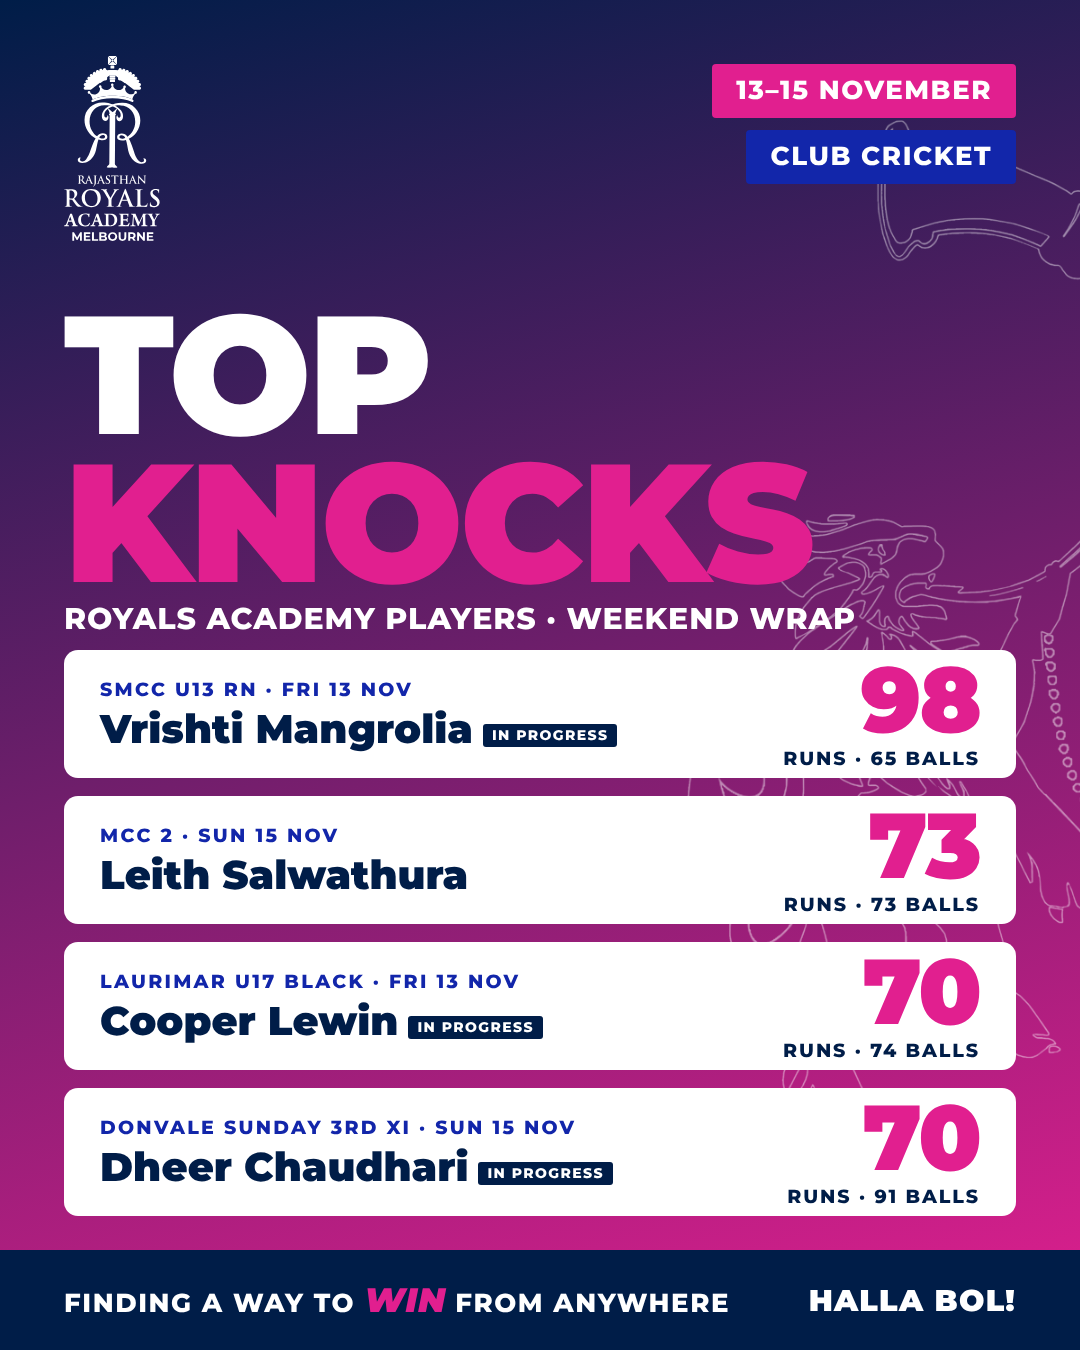
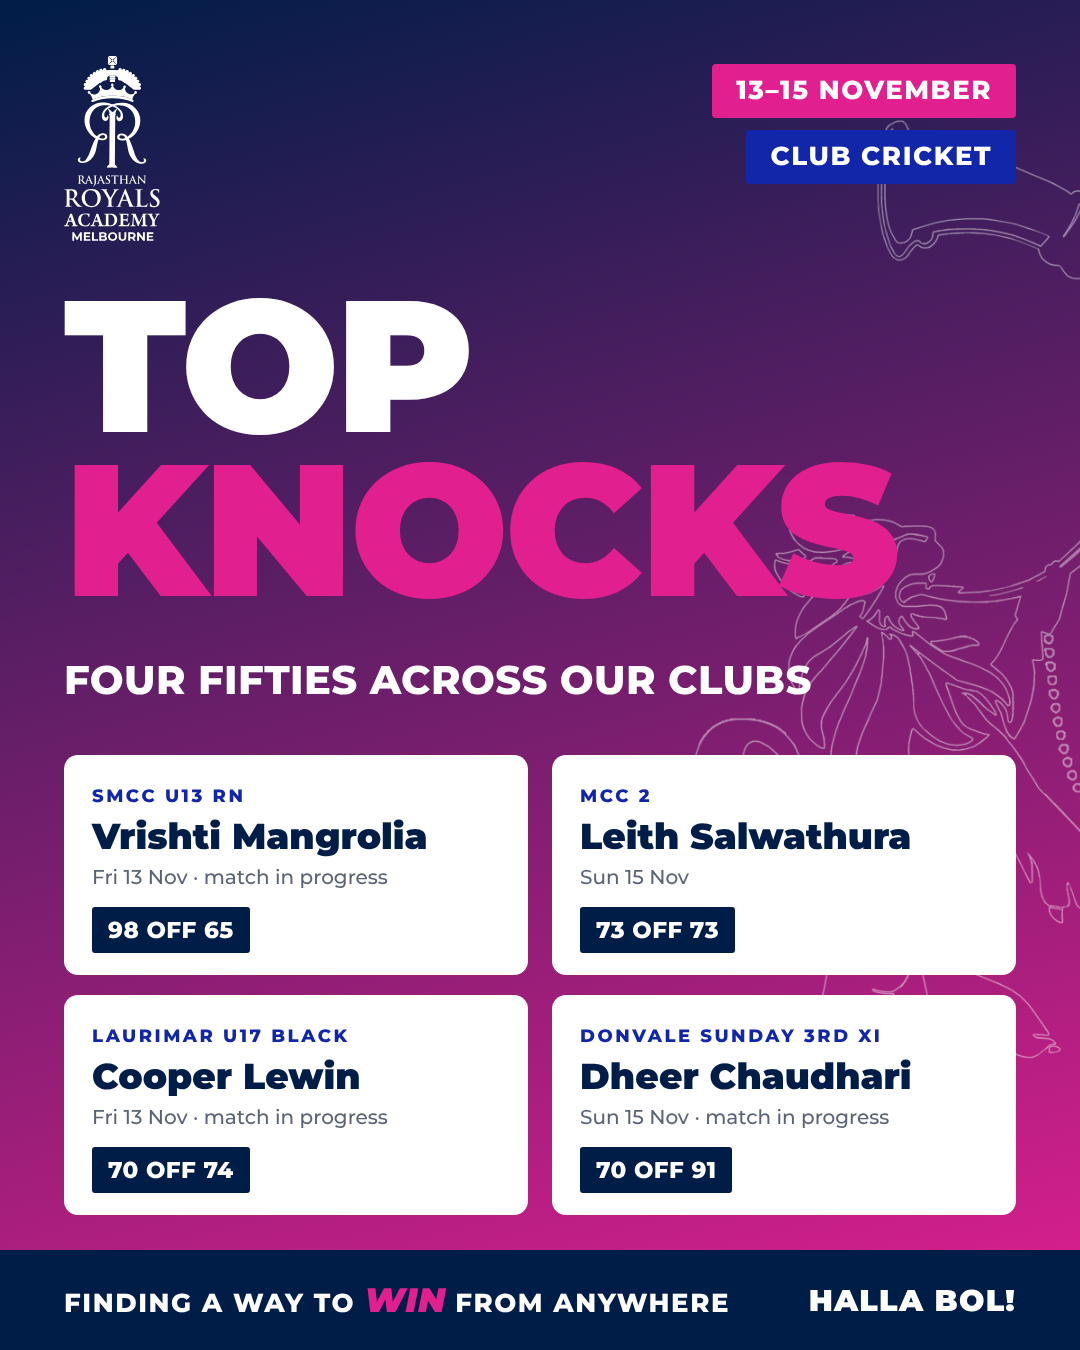
Save Andy's master Game Day reference with measurements; results template matched to its grid
Claude-Session: https://claude.ai/code/session_01LFFLZ7Q5rV4Gcv12DsXfHk

Changed region(s): [[0.0611, 0.2178, 0.9472, 0.9022]]

diff --git a/brand/templates/weekend-results/1.html b/brand/templates/weekend-results/1.html
@@ -1,17 +1,11 @@
-<!doctype html><html><head><meta charset="utf-8"><link rel="stylesheet" href="base.css"><style>
-.list{position:absolute;left:64px;right:64px;top:650px;display:flex;flex-direction:column;gap:18px}
-.card{height:128px;padding:0 36px}
-.num{font-size:92px}
-</style></head><body><div class="frame">
+<!doctype html><html><head><meta charset="utf-8"><link rel="stylesheet" href="base.css"></head><body><div class="frame">
 <img class="lion" src="../../logos/lion-rampant-white.png"><img class="logo" src="../../logos/rra-melbourne-white.svg">
 <div class="chips"><span class="chip pink">13–15 November</span><span class="chip blue">Club cricket</span></div>
-<div class="h" style="top:300px;font-size:168px"><span>TOP</span><span class="p">KNOCKS</span></div>
-<div class="sub" style="top:600px">Royals Academy players · Weekend wrap</div>
-<div class="list">
- <div class="card"><div><div class="eyebrow">SMCC U13 RN · Fri 13 Nov</div><div class="name">Vrishti Mangrolia<span class="tag">IN PROGRESS</span></div></div><div class="fig"><div class="num">98</div><div class="unit">Runs · 65 balls</div></div></div>
- <div class="card"><div><div class="eyebrow">MCC 2 · Sun 15 Nov</div><div class="name">Leith Salwathura</div></div><div class="fig"><div class="num">73</div><div class="unit">Runs · 73 balls</div></div></div>
- <div class="card"><div><div class="eyebrow">Laurimar U17 Black · Fri 13 Nov</div><div class="name">Cooper Lewin<span class="tag">IN PROGRESS</span></div></div><div class="fig"><div class="num">70</div><div class="unit">Runs · 74 balls</div></div></div>
- <div class="card"><div><div class="eyebrow">Donvale Sunday 3rd XI · Sun 15 Nov</div><div class="name">Dheer Chaudhari<span class="tag">IN PROGRESS</span></div></div><div class="fig"><div class="num">70</div><div class="unit">Runs · 91 balls</div></div></div>
-</div>
+<div class="h"><span>TOP</span><span class="p">KNOCKS</span></div>
+<div class="st" style="top:655px"><div class="a">FOUR FIFTIES ACROSS OUR CLUBS</div></div>
+<div class="gd" style="top:755px;row-gap:20px"><div class="gc"><div class="eyebrow">SMCC U13 RN</div><div class="t">Vrishti Mangrolia</div><div class="s">Fri 13 Nov · match in progress</div><div class="k">98 OFF 65</div></div><div class="gc"><div class="eyebrow">MCC 2</div><div class="t">Leith Salwathura</div><div class="s">Sun 15 Nov</div><div class="k">73 OFF 73</div></div><div class="gc"><div class="eyebrow">Laurimar U17 Black</div><div class="t">Cooper Lewin</div><div class="s">Fri 13 Nov · match in progress</div><div class="k">70 OFF 74</div></div><div class="gc"><div class="eyebrow">Donvale Sunday 3rd XI</div><div class="t">Dheer Chaudhari</div><div class="s">Sun 15 Nov · match in progress</div><div class="k">70 OFF 91</div></div></div>
 <div class="footer"><span>FINDING A WAY TO <em>WIN</em> FROM ANYWHERE</span><b>HALLA BOL!</b></div>
-</div></body></html>
+</div><script>
+// Fit the headline: Game Day size (245px), longest word ends by x=900 (GAME ends at 805) so the lion keeps its space
+document.fonts.load('900 100px M').then(()=>document.fonts.ready).then(()=>{document.querySelectorAll('.h').forEach(h=>{const max=parseFloat(getComputedStyle(h).fontSize),cap=h.offsetTop+0.098*max;let f=max;const w=()=>Math.max(...[...h.children].map(s=>{const r=document.createRange();r.selectNodeContents(s);return r.getBoundingClientRect().width}));while(w()>h.parentElement.clientWidth-64-180&&f>60){f-=2;h.style.fontSize=f+'px'}h.style.top=(cap-0.098*f)+'px';document.body.dataset.ready=1})});
+</script></body></html>

diff --git a/brand/templates/weekend-results/2.html b/brand/templates/weekend-results/2.html
@@ -1,19 +1,11 @@
-<!doctype html><html><head><meta charset="utf-8"><link rel="stylesheet" href="base.css"><style>
-.pair{position:absolute;left:64px;right:64px;top:650px;display:flex;gap:24px}
-.card{flex:1;height:340px;padding:34px 32px;flex-direction:column;align-items:flex-start;justify-content:space-between}
-.num{font-size:132px}
-.msg{position:absolute;left:64px;right:64px;top:1040px;border-left:6px solid var(--pink);padding-left:24px}
-.msg p{font-weight:800;font-size:31px;line-height:1.3}
-.msg small{display:block;margin-top:12px;font-weight:500;font-size:22px;line-height:1.4;opacity:.9}
-.pair .name{font-size:36px;white-space:nowrap}</style></head><body><div class="frame">
+<!doctype html><html><head><meta charset="utf-8"><link rel="stylesheet" href="base.css"></head><body><div class="frame">
 <img class="lion" src="../../logos/lion-rampant-white.png"><img class="logo" src="../../logos/rra-melbourne-white.svg">
 <div class="chips"><span class="chip pink">13–15 November</span><span class="chip blue">Club cricket</span></div>
-<div class="h" style="top:300px;font-size:168px"><span>TOP</span><span class="p">SPELLS</span></div>
-<div class="sub" style="top:600px">Royals Academy players · Weekend wrap</div>
-<div class="pair">
- <div class="card"><div><div class="eyebrow">Ormond 3rd XI · Sat 14 Nov</div><div class="name">Priyam Sharma</div><div class="meta">Spin Club</div></div><div><div class="num">5/43</div><div class="unit">5 wickets</div></div></div>
- <div class="card"><div><div class="eyebrow">Ormond 3rd XI · Sat 14 Nov</div><div class="name">Aarav Vinothkumar</div><div class="meta">Performance Squad</div></div><div><div class="num">4/8</div><div class="unit">4 wickets</div></div></div>
-</div>
-<div class="msg"><p>Proud of all 175 players in our academy community, and how you represent your clubs every week.</p><small>We may not have captured every performance.</small></div>
+<div class="h"><span>TOP</span><span class="p">SPELLS</span></div>
+<div class="st"><div class="a">PROUD OF ALL 175</div><div class="v">PLAYERS IN OUR</div><div class="a">ACADEMY COMMUNITY</div></div>
+<div class="gd" style="top:975px"><div class="gc"><div class="eyebrow">Ormond 3rd XI</div><div class="t">Priyam Sharma</div><div class="s">Sat 14 Nov · Spin Club</div><div class="k">5/43 · 5 WICKETS</div></div><div class="gc"><div class="eyebrow">Ormond 3rd XI</div><div class="t">Aarav Vinothkumar</div><div class="s">Sat 14 Nov · Performance Squad</div><div class="k">4/8 · 4 WICKETS</div></div></div>
 <div class="footer"><span>FINDING A WAY TO <em>WIN</em> FROM ANYWHERE</span><b>HALLA BOL!</b></div>
-</div></body></html>
+</div><script>
+// Fit the headline: Game Day size (245px), longest word ends by x=900 (GAME ends at 805) so the lion keeps its space
+document.fonts.load('900 100px M').then(()=>document.fonts.ready).then(()=>{document.querySelectorAll('.h').forEach(h=>{const max=parseFloat(getComputedStyle(h).fontSize),cap=h.offsetTop+0.098*max;let f=max;const w=()=>Math.max(...[...h.children].map(s=>{const r=document.createRange();r.selectNodeContents(s);return r.getBoundingClientRect().width}));while(w()>h.parentElement.clientWidth-64-180&&f>60){f-=2;h.style.fontSize=f+'px'}h.style.top=(cap-0.098*f)+'px';document.body.dataset.ready=1})});
+</script></body></html>

diff --git a/brand/templates/weekend-results/base.css b/brand/templates/weekend-results/base.css
@@ -13,7 +13,7 @@ body{font-family:M,sans-serif;color:#fff}
 .chips{position:absolute;right:64px;top:64px;display:flex;flex-direction:column;align-items:flex-end;gap:12px}
 .chip{display:inline-block;font-weight:800;text-transform:uppercase;letter-spacing:.06em;padding:12px 24px;border-radius:4px;font-size:26px;line-height:1.15}
 .chip.pink{background:var(--pink)}.chip.blue{background:var(--blue)}.chip.navy{background:var(--navy)}
-.h{position:absolute;left:64px;font-weight:900;text-transform:uppercase;line-height:.88;letter-spacing:-.02em}
+.h{position:absolute;left:64px;top:277px;font-size:245px;font-weight:900;text-transform:uppercase;line-height:.88;letter-spacing:-.02em;white-space:nowrap}
 .h span{display:block}.h .p{color:var(--pink)}
 .sub{position:absolute;left:64px;font-weight:800;text-transform:uppercase;font-size:30px;letter-spacing:.03em}
 .footer{position:absolute;left:0;right:0;bottom:0;height:100px;background:var(--navy);display:flex;align-items:center;justify-content:space-between;padding:0 64px;font-weight:800;font-size:26px;letter-spacing:.06em}
@@ -27,3 +27,14 @@ body{font-family:M,sans-serif;color:#fff}
 .num{color:var(--pink);font-weight:900;line-height:.9;letter-spacing:-.02em}
 .unit{font-weight:800;font-size:19px;letter-spacing:.1em;text-transform:uppercase;margin-top:6px}
 .tag{display:inline-block;margin-left:10px;vertical-align:3px;font-size:14px;font-weight:800;letter-spacing:.1em;padding:4px 9px;border-radius:3px;background:var(--navy);color:#fff}
+
+/* Game Day card (master reference: 464x220, 24px gap, top 975) */
+.gd{position:absolute;left:64px;right:64px;display:grid;grid-template-columns:1fr 1fr;gap:24px}
+.gc{background:#fff;border-radius:14px;color:var(--navy);height:220px;padding:30px 28px 0}
+.gc .eyebrow{font-size:18px;letter-spacing:.14em}
+.gc .t{font-weight:900;font-size:36px;line-height:1.1;margin-top:10px;white-space:nowrap}
+.gc .s{color:#5b6475;font-weight:500;font-size:20px;margin-top:8px;white-space:nowrap}
+.gc .k{display:inline-block;margin-top:18px;background:var(--navy);color:#fff;font-weight:800;font-size:23px;letter-spacing:.02em;padding:9px 16px;border-radius:3px}
+/* Game Day statement block (matchup: white 800 ~40px, pink small connector) */
+.st{position:absolute;left:64px;top:745px;font-weight:800;text-transform:uppercase}
+.st .a{font-size:40px;letter-spacing:.01em}.st .v{color:var(--pink);font-size:26px;margin:14px 0 12px;letter-spacing:.06em}

diff --git a/.claude/skills/rra-design-studio/SKILL.md b/.claude/skills/rra-design-studio/SKILL.md
@@ -26,8 +26,20 @@ What makes it work, and what every new design copies:
 
 Andy, 17 Nov 2026: *"I love the justification of the key headline to the left ... I like the line
 and the proportions."* He wants promos, job ads, alerts and results to look like this. So:
-- **Headline left-aligned at the 64px margin**, never centred. Two words stacked, huge
-  (150-220px on 1080 wide), filling about half the frame width or more.
+**MASTER REFERENCE: `brand/reference/MASTER-game-day-cover.png`** ("This is the style I like").
+Open it and compare side by side before sending anything. Measured on the 1080x1350 frame:
+- Logo top-left x64 y64, ~96px wide. Chips top-right, right edge x1016, top y64, 12px apart.
+- **Headline**: Montserrat 900, **245px**, line-height 0.88, tracking -0.02em, left x64.
+  Line 1 cap top y301, line 2 cap top y517. The longest word ends by about **x900**
+  (GAME ends at x805), so the lion keeps its space on the right. Long words: shrink to fit
+  that, never past it.
+- **Statement block** (the "NORTH MELBOURNE vs SOUTH-EAST MELBOURNE" slot) from y745: white 800
+  ~40px uppercase lines, with a small pink 26px connector line between them.
+- **Cards** from y975: two across, 464x220 each, 24px gap, radius 14. Blue eyebrow 18px,
+  navy 900 title 36px, grey 20px line, navy chip (800, 23px). Four items: 2x2 from y755.
+- Lion: line-art lion, height 1080, right -110px, top 120px, opacity 0.6 on this PNG.
+- Footer: navy bar 100px at y1250.
+- **Headline left-aligned at the 64px margin**, never centred. Two words stacked.
 - **Proportions**: top band (logo left, chips right) ~ 20%; headline ~ 25%; content ~ 45%;
   footer bar 100px. Everything hangs off the same left line: logo, headline, subline, cards.
 - **Subline** in Montserrat 800 uppercase, ~30px, directly under the headline.
